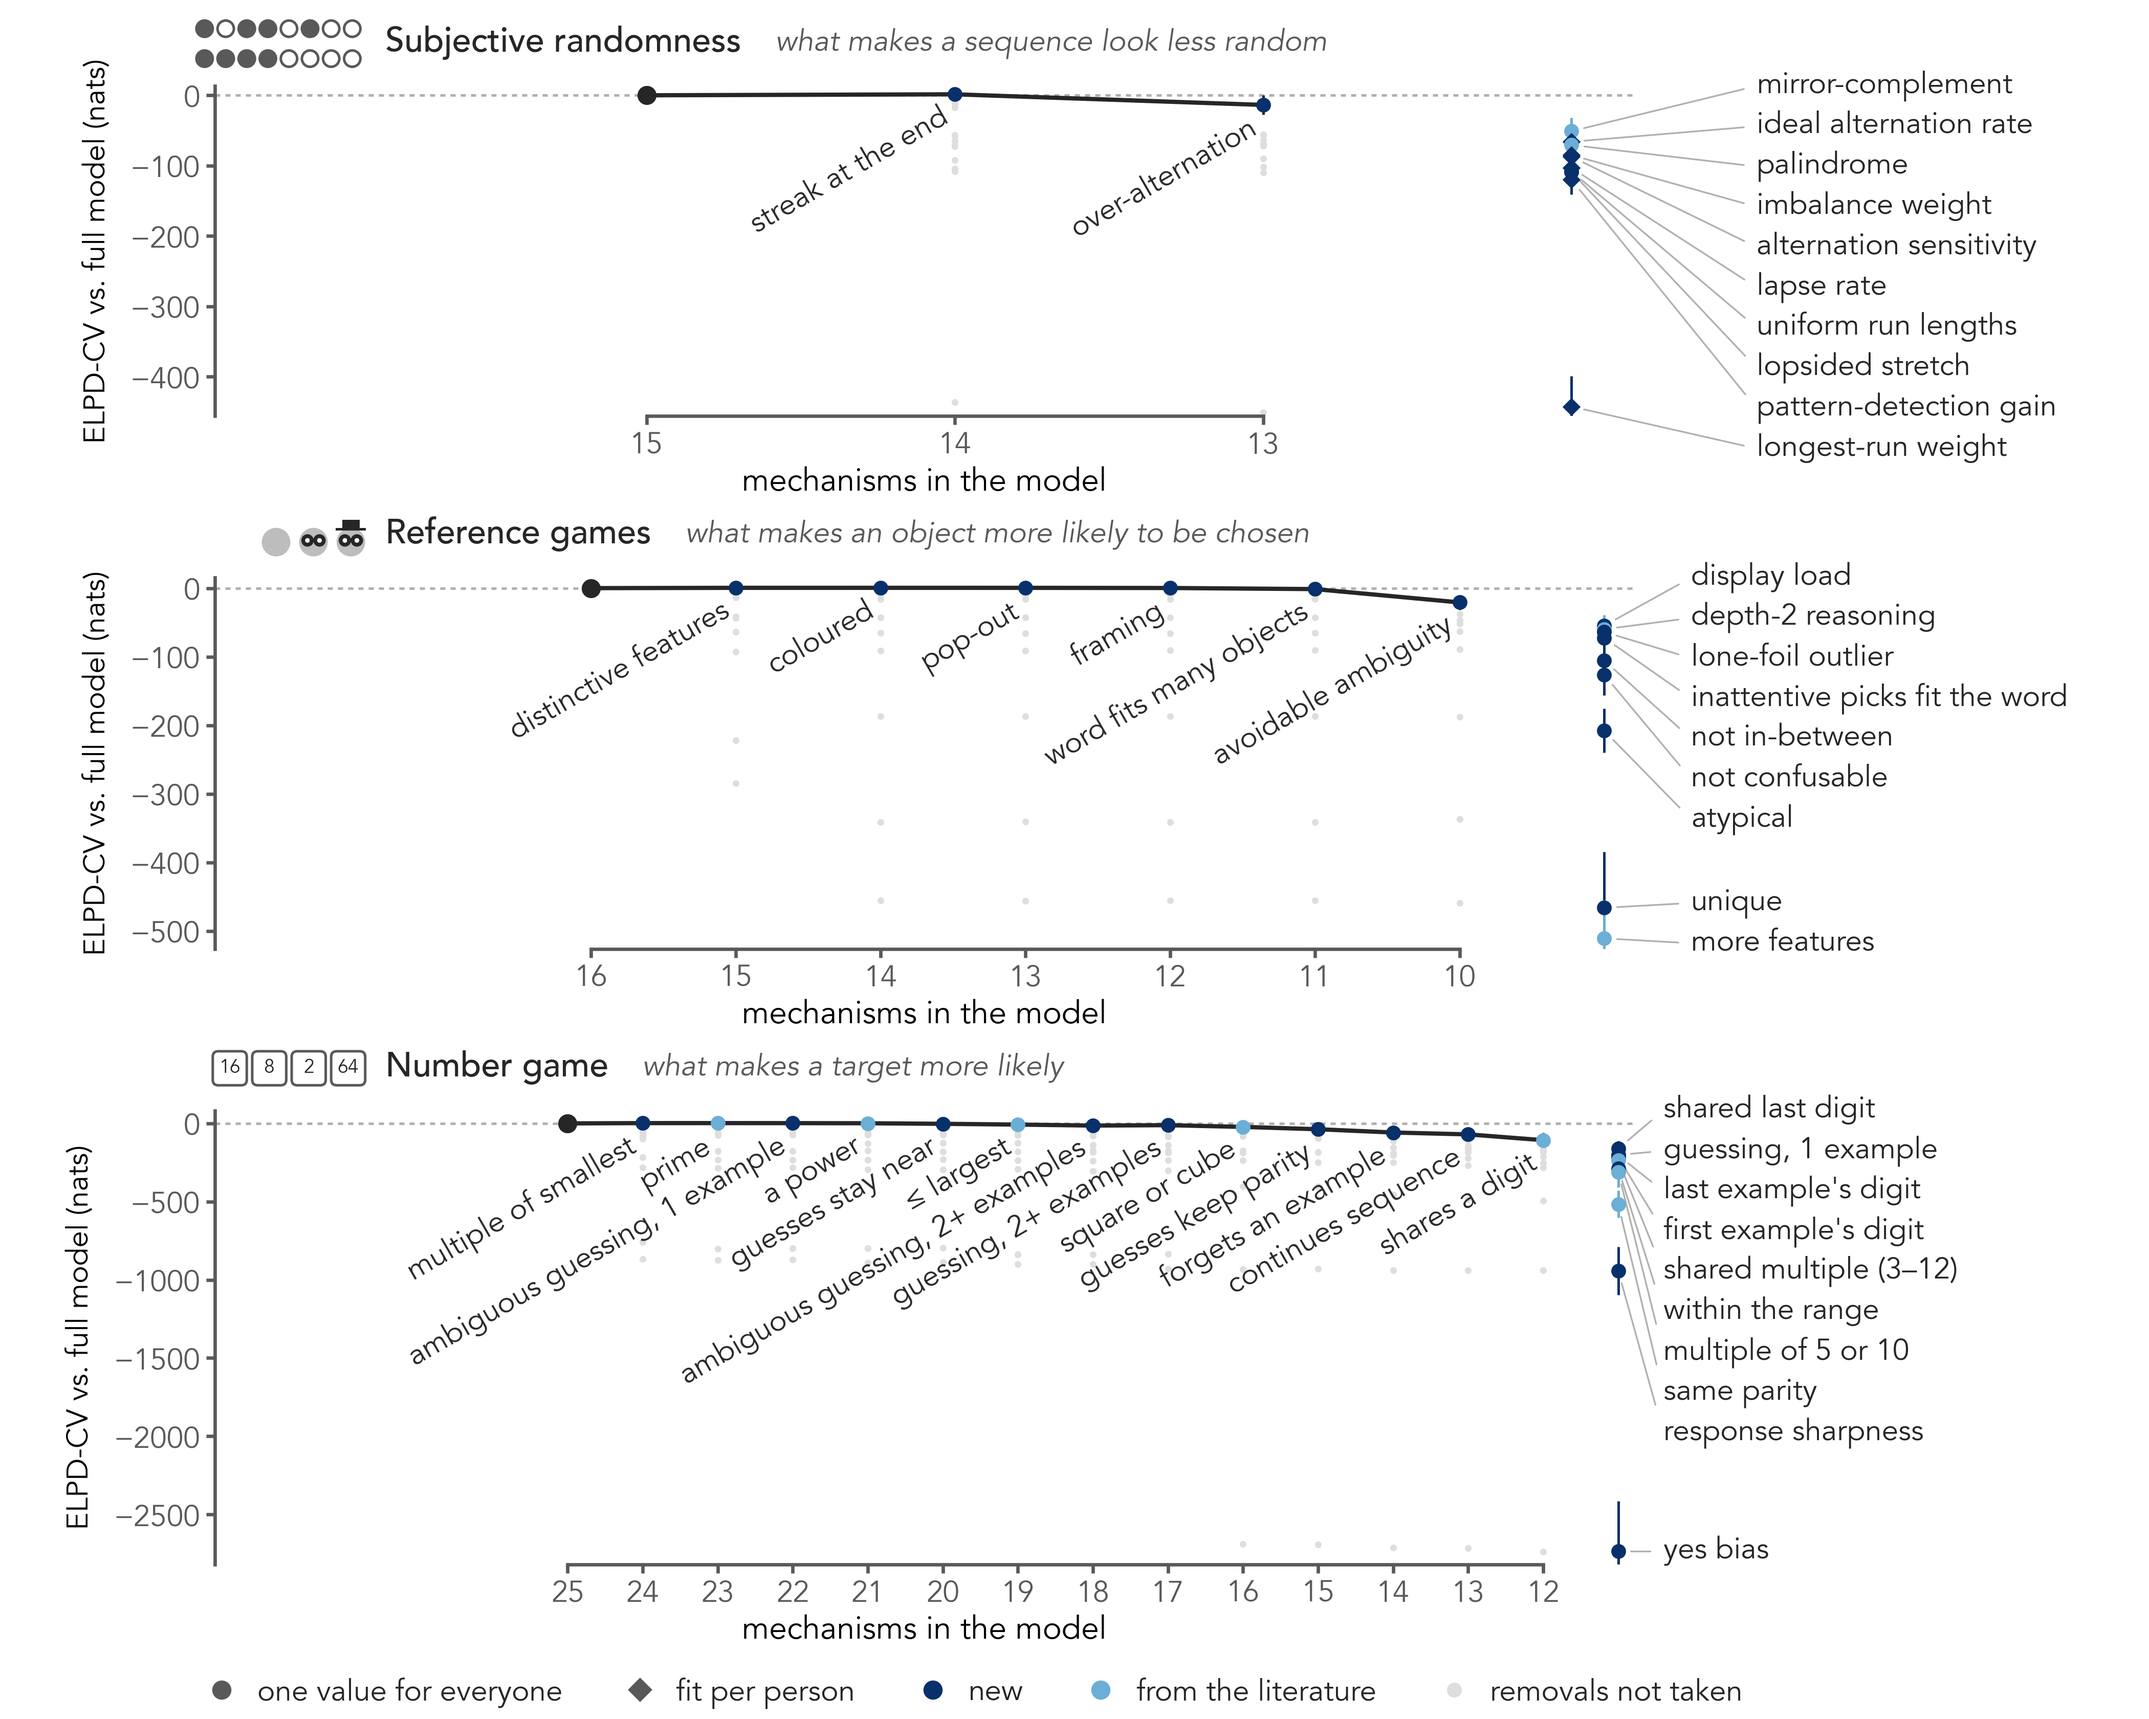
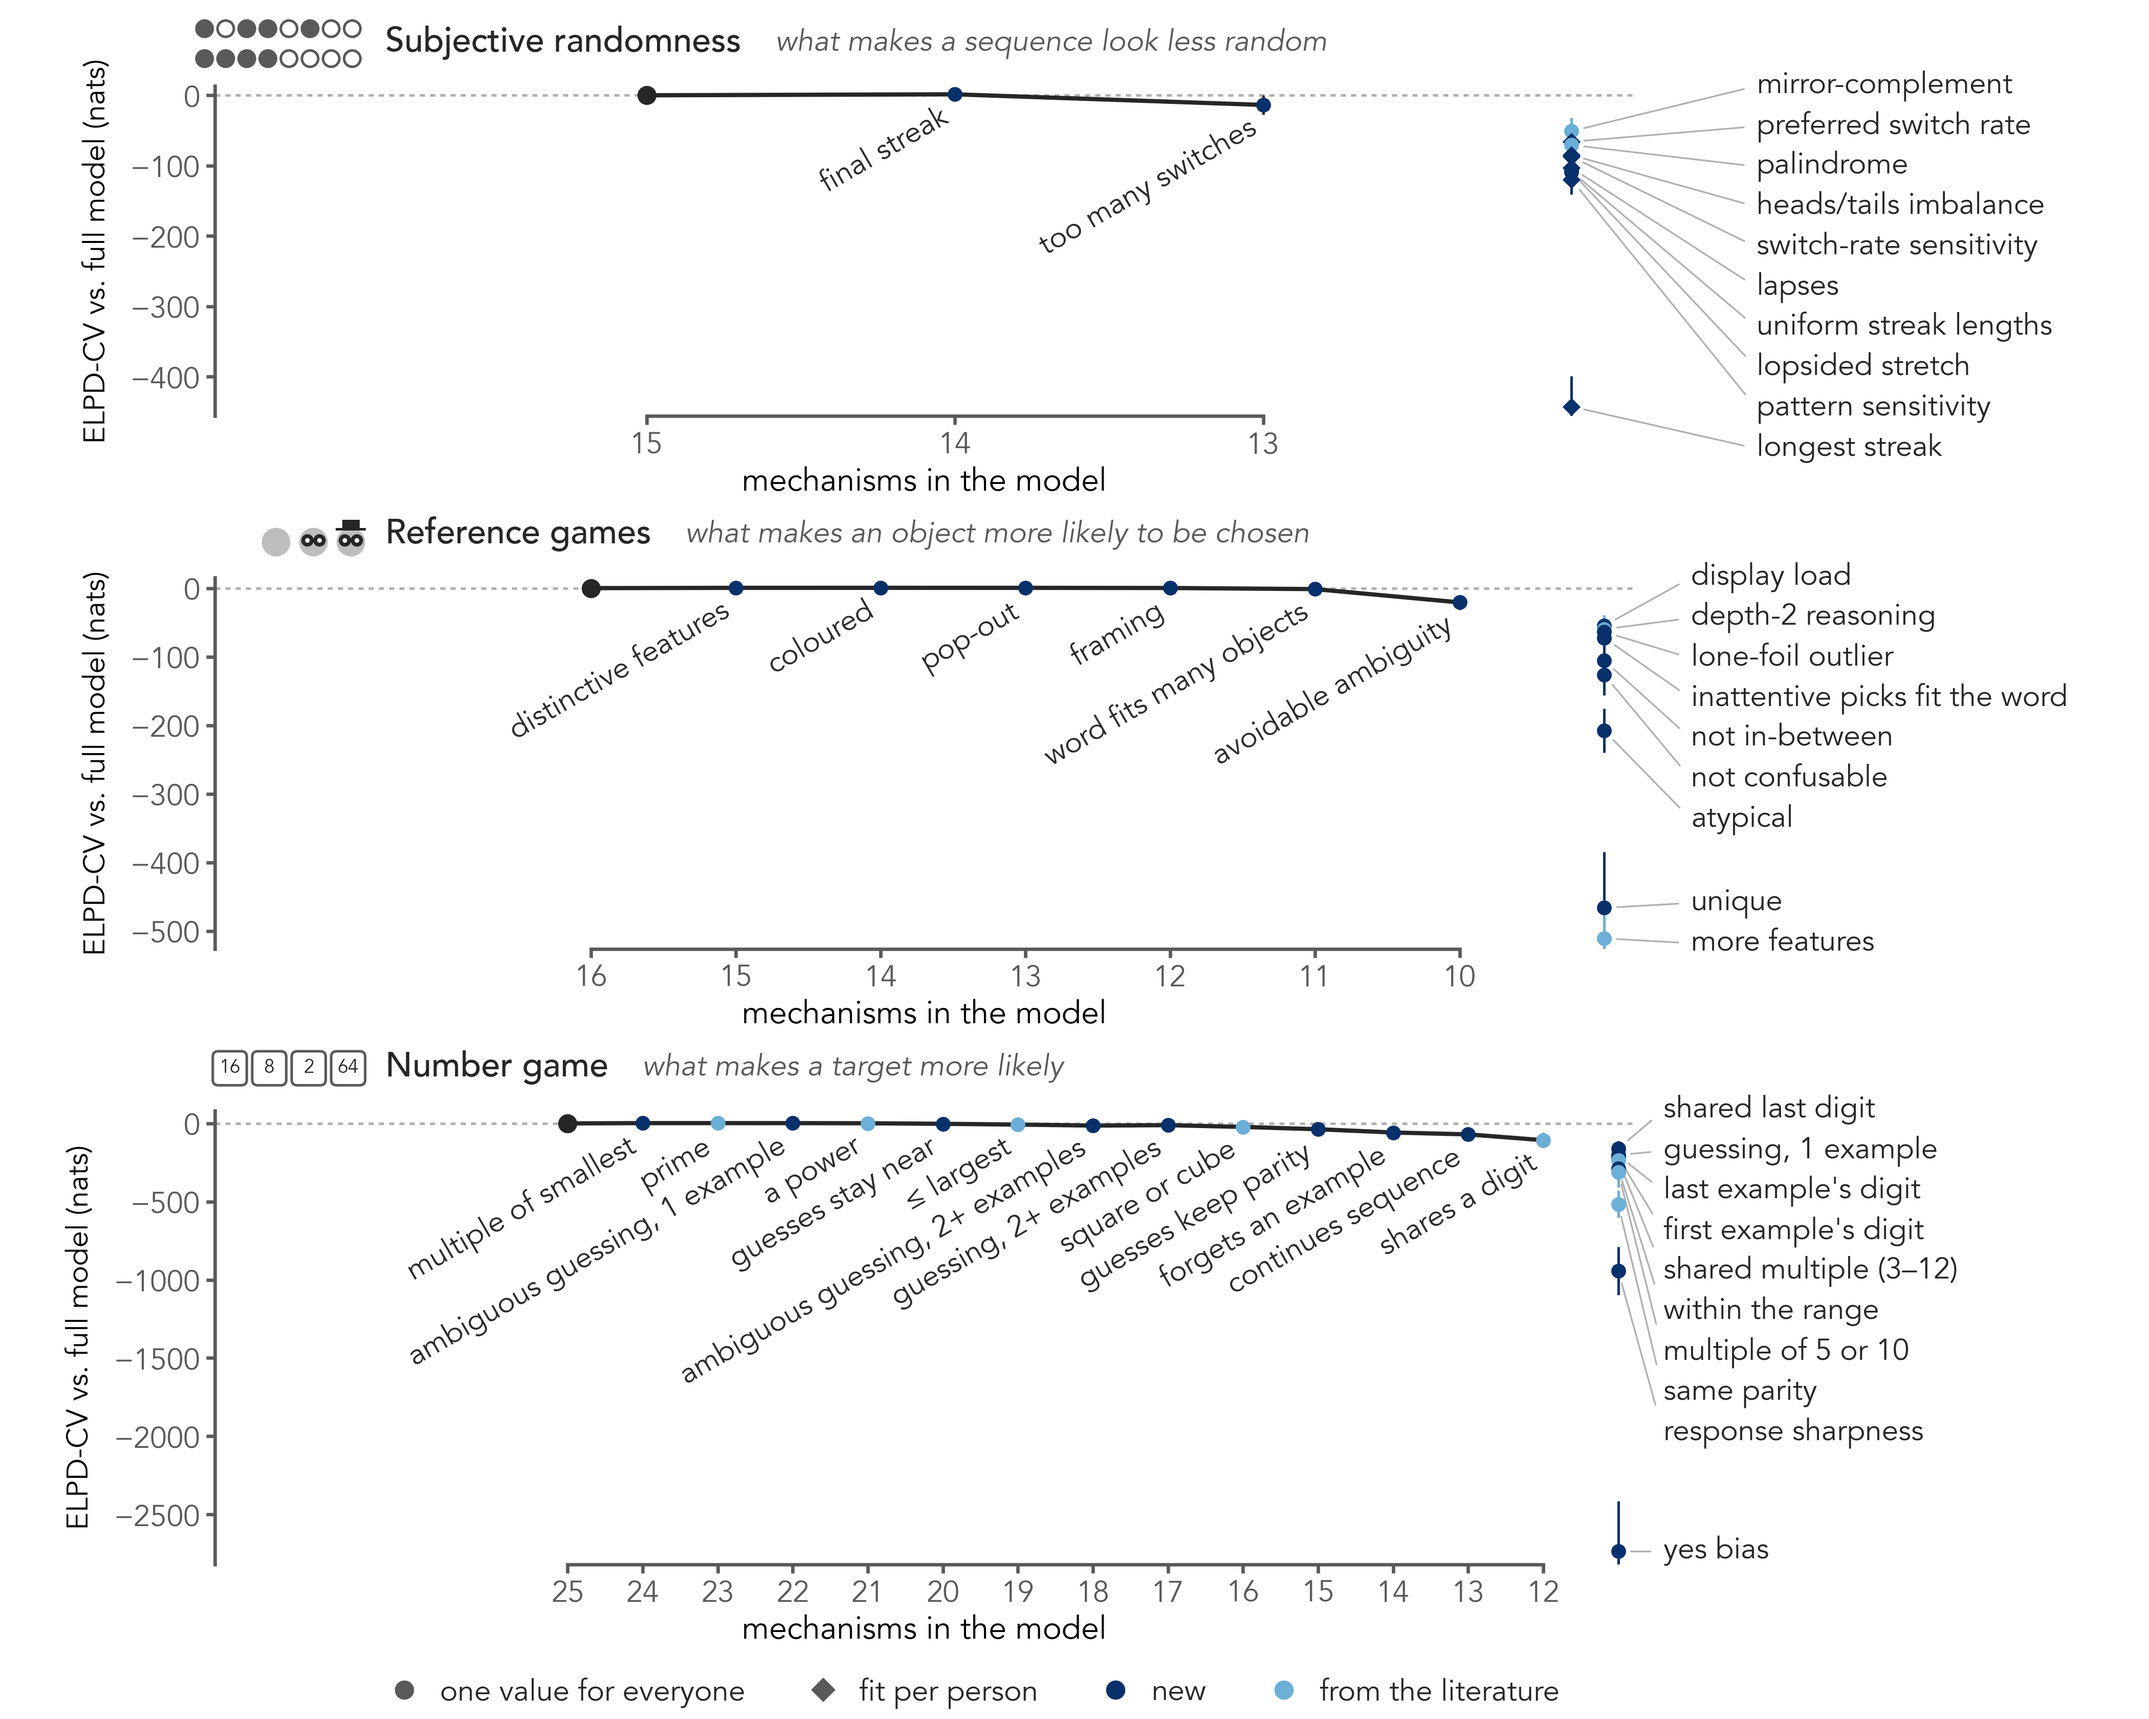
Figure 4 draft: no grey dots; subjective randomness in streaks and switches (preferred switch rate, longest streak, ...)

diff --git a/data/paper/work/fig4_draft/fig4_draft.py b/data/paper/work/fig4_draft/fig4_draft.py
@@ -1,6 +1,6 @@
 """Draft of Figure 4 (throwaway): per domain, the backward elimination of the winning model on one scale,
 ELPD-CV against the full model. The line is the model kept after each round (each step named by the
-mechanism it dropped); faint dots are the removals not taken that round; at the end, every remaining
+mechanism it dropped); at the end, every remaining
 removal (each kept mechanism), all of which cost at least 2 SE, so the elimination stopped.
 
 Run: uv run python -m data.paper.work.fig4_draft.fig4_draft
@@ -23,7 +23,6 @@ OUT = here() / "data" / "paper" / "work" / "fig4_draft"
 COLOR_NEW, COLOR_START, PATH = "#08306b", "#6baed6", "#262626"
 NAME_PT, SMALL = 7.0, 7.0  # PNAS: no text under 6 pt at the printed size
 WIDTH_IN, HEIGHT_IN, DPI = 7.0, 5.6, 600  # one row per domain  # the saved figure: PNAS's full width
-GREY = "#dedede"  # the removals not taken
 # each panel's cues are named by what pushes its response this way (the fitted signs: mechanisms.yaml)
 DIRECTION = {"subjective_randomness": "what makes a sequence look less random",
              "rsa": "what makes an object more likely to be chosen",
@@ -71,11 +70,6 @@ def draw(ax, elimination, names):
     options = sorted(rounds[-1]["candidates"], key=lambda c: -c["elpd_cv"])
     opt_y = np.array([c["elpd_cv"] - base for c in options])
     lo = min(y.min(), opt_y.min())
-    # the removals not taken, each round
-    for k, r in enumerate(rounds[:-1]):
-        gone = (set(r["mechanisms"]) - set(rounds[k + 1]["mechanisms"])).pop()
-        ys = [c["elpd_cv"] - base for c in r["candidates"] if c["mechanism"] != gone]
-        ax.scatter([n[k] - 1] * len(ys), ys, s=2.5, color=GREY, linewidths=0, zorder=1)
     # the path, each step named by what it dropped
     ax.plot(n, y, color=PATH, lw=1.0, zorder=3)
     ax.errorbar(n, y, yerr=se, fmt="none", ecolor=PATH, elinewidth=0.6, zorder=3)
@@ -135,9 +129,8 @@ def figure(canvas_in, names, src):
     key = [Line2D([], [], marker="o", color=INK_2, label="one value for everyone", **dot),
            Line2D([], [], marker="D", color=INK_2, label="fit per person", **{**dot, "ms": 3}),
            Line2D([], [], marker="o", color=COLOR_NEW, label="new", **dot),
-           Line2D([], [], marker="o", color=COLOR_START, label="from the literature", **dot),
-           Line2D([], [], marker="o", color=GREY, label="removals not taken", **{**dot, "ms": 2.5})]
-    fig.legend(handles=key, loc="upper center", ncol=5, frameon=False, fontsize=SMALL, bbox_to_anchor=(0.45, 0.04),
+           Line2D([], [], marker="o", color=COLOR_START, label="from the literature", **dot)]
+    fig.legend(handles=key, loc="upper center", ncol=4, frameon=False, fontsize=SMALL, bbox_to_anchor=(0.45, 0.04),
                handletextpad=0.2, columnspacing=1.6)
     add_title_icons(fig, axes, list(TITLES))
     return fig, None
